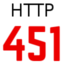
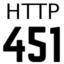
updated readme for changes in 1.0.5

diff --git a/popup.js b/popup.js
@@ -1,4 +1,7 @@
-window.onload = function() {	
+window.onload = function() {
+chrome.browserAction.setIcon({
+path : "icons/icon_128.png"});
+	
 chrome.tabs.query({currentWindow: true, active: true}, function(tabs){
 	var Url = tabs[0].url
 	var xhttp = new XMLHttpRequest();
@@ -8,16 +11,19 @@ chrome.tabs.query({currentWindow: true, active: true}, function(tabs){
 				"Url: " + Url;
 			document.getElementById("statuscode").innerHTML =
 				"http status code: " + this.status;
-	      document.getElementById("statustext").innerHTML =
-			  "http status text: " + this.statusText;
 			if (this.status == 451){
 				//if error 451, display status
 				document.getElementById("detect").innerHTML =
-					"Censorship detected : Error 451";}
+					"Censorship detected : Error 451"
+				chrome.browserAction.setIcon({
+					path : "icons/451/icon_128.png"
+				});
+				;}//endif this.status
 			else {
 				document.getElementById("detect").innerHTML =
-					"No censorship detected :" + Url + " responded with " + this.status;	
+					"No censorship detected :" + Url + " responded with " + this.status;
 			}
+			
 		}//end of readystate
 	};//end of onready
 	xhttp.open("GET", Url, true);

diff --git a/popup.html b/popup.html
@@ -13,7 +13,6 @@
 	<body>
 		<p id="Url"></p>
 		<p id="statuscode"></p>
-		<p id="statustext" ></p>
 		<p id="detect" ></p>
 	</body>
 </html>

diff --git a/README.md b/README.md
@@ -25,6 +25,10 @@ Official Page: https://www.ietf.org/registration/MeetingWiki/wiki/99hackathon
 https://github.com/adadgio/safari-reader-js
 
 ## Changelog
+### 1.0.5
+* Added different icons for status codes
+* Black for no 451 and Red for 451
+
 ### 1.0.4
 * Removed click button to check
 * Extension now grabs current page and checks for 451
